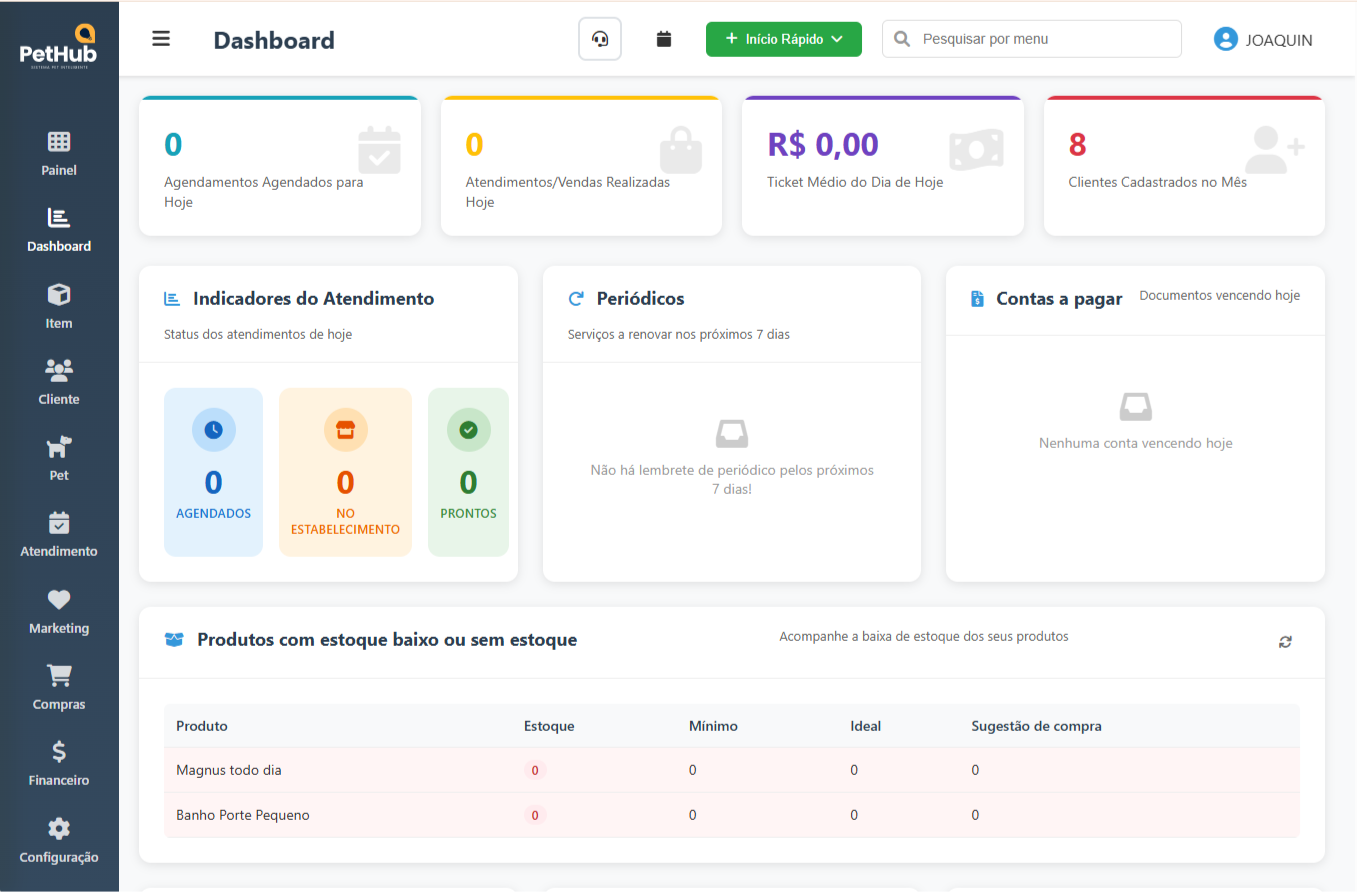
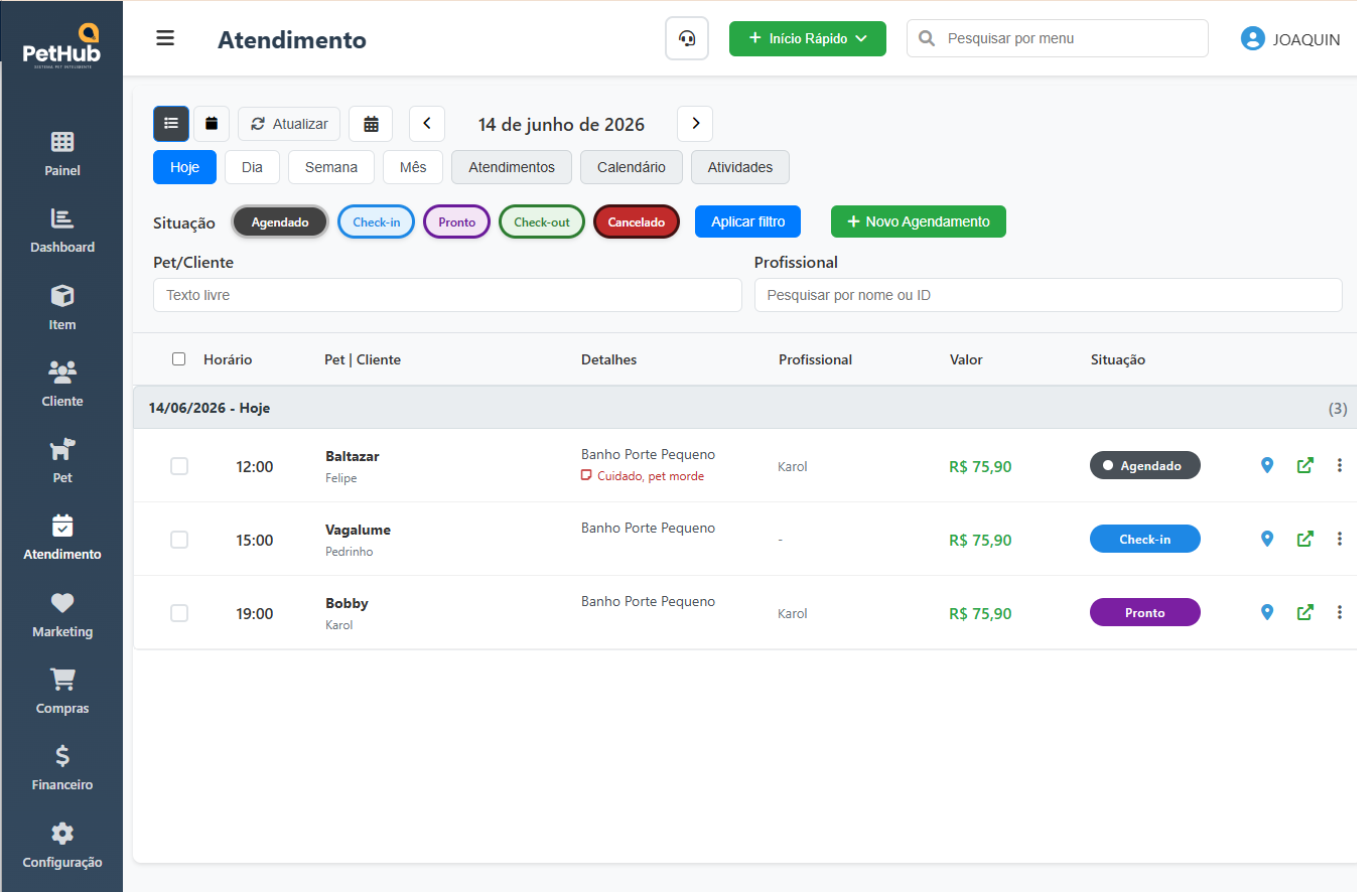
img

diff --git a/frontend/index.html b/frontend/index.html
@@ -315,7 +315,7 @@
                 <div class="demo-item">
                     <div class="demo-item-image">
                         <div class="placeholder-content">
-                            <img src="imagens/gestao-pets.png">
+                            <img src="imagens/pets.png">
                             <p>Histórico completo do pet</p>
                         </div>
                     </div>
